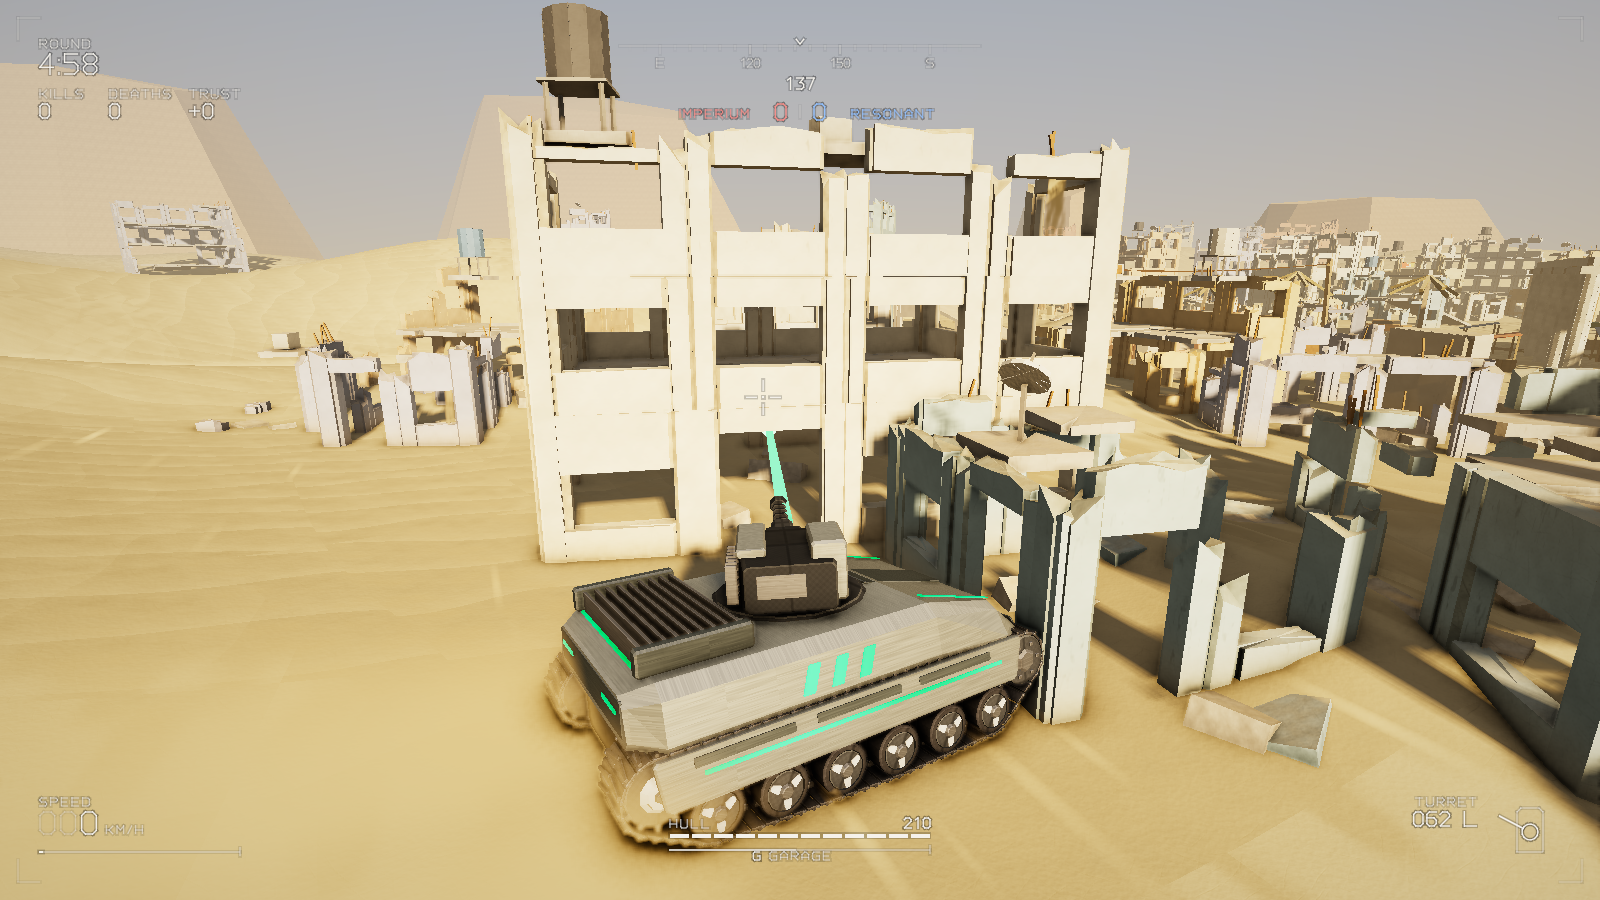
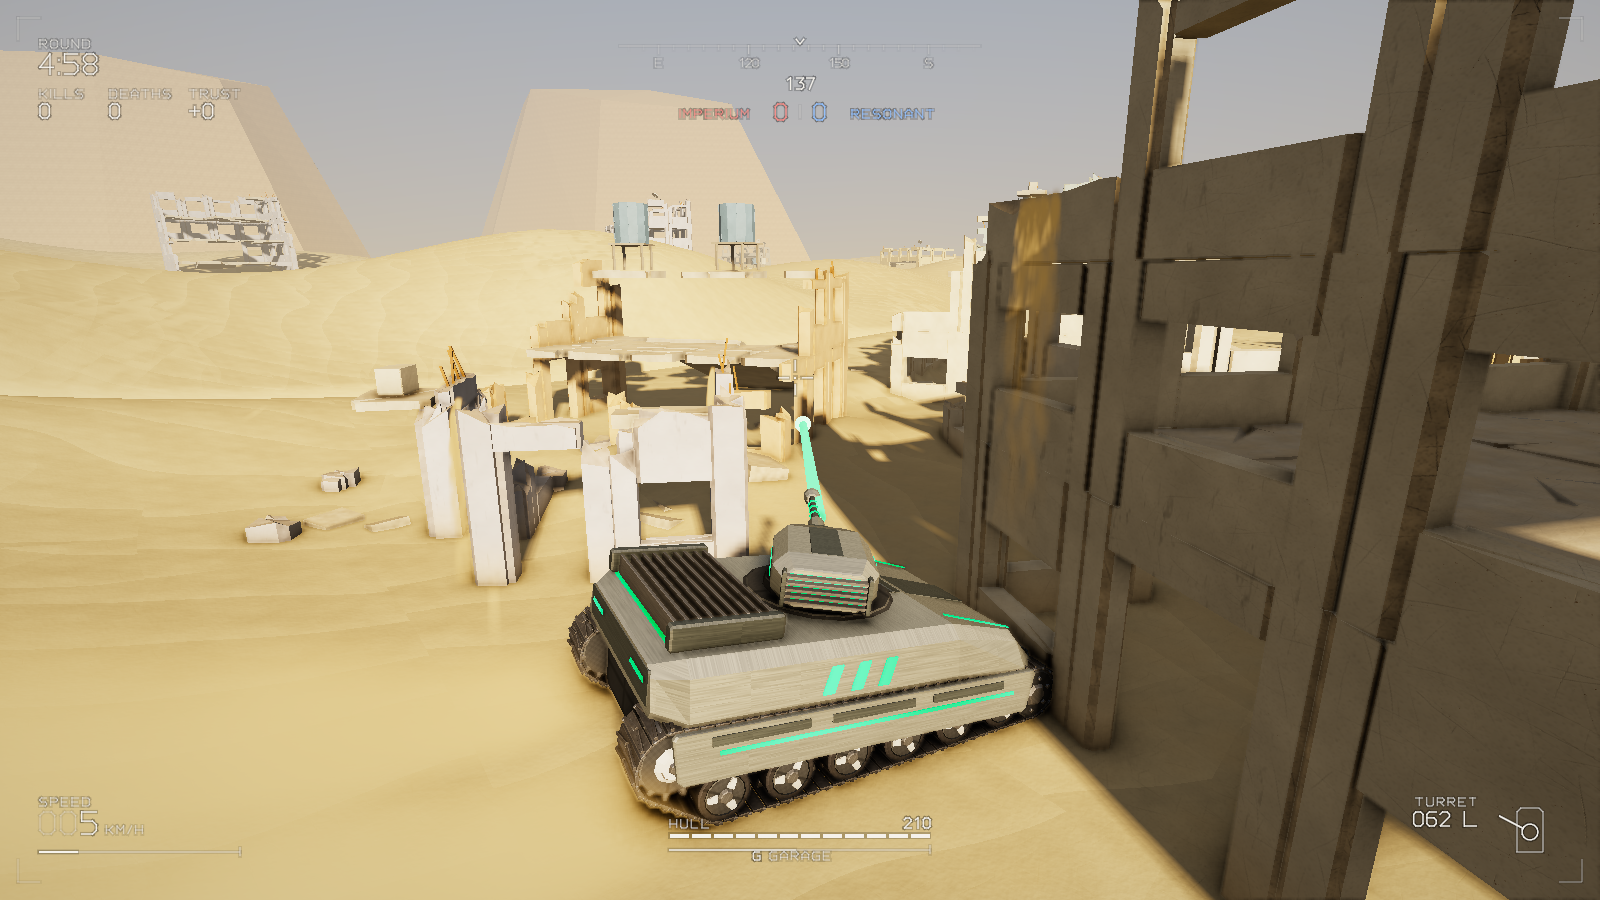
Lumen rebuilt in the Gravis's style
One faceted housing in the hull's pale shell instead of stacked blocks,
green seams on its shoulders and slots in its flanks, radiator fins over a
green-lit well at its back, and a smooth rod ringed in glowing green in
place of the square coils. Moves from model.rs to uthenn.rs.

Claude-Session: https://claude.ai/code/session_01MEmTqFVWWcjbd5bh79dW6c

diff --git a/src/tank/uthenn.rs b/src/tank/uthenn.rs
@@ -1,13 +1,13 @@
 //! Uthenn kit: the Gravis hull. Big, bulky and slow: one smooth pale shell
 //! over the whole running gear, armored pods over the tracks, a chisel prow
 //! with a green visor, and a bank of radiator fins across the rear deck.
-//! Green light runs in its seams.
+//! Green light runs in its seams. And the Lumen turret, in the same style.
 
 use glam::{Vec2, Vec3, Vec4};
 
 use super::model::{
-    CARBON, CARBON_LIGHT, HullModel, LASER_GLOW, METAL, Running, Skin, at_z, block, block2, ngon,
-    plate, plate2, round, solid, trap, v,
+    CARBON, CARBON_LIGHT, HullModel, LASER_GLOW, METAL, Rig, Running, Skin, TurretModel, at_x,
+    at_z, block, block2, ngon, plate, plate2, rect, round, solid, trap, turret_ring, v,
 };
 use super::track::Wheel;
 use crate::render::material::Material;
@@ -260,4 +260,183 @@ pub fn gravis() -> HullModel {
 /// A ring of radius `r` around the turret ring's axis, at height `y`.
 fn at_y_ring(r: f32, y: f32) -> Vec<Vec3> {
     super::model::at_y(&ngon(16, r, Vec2::new(0.0, -0.1)), y)
+}
+
+/// Uthenn laser: one faceted housing in the hull's pale shell, sloping down
+/// to the gun, green seams along its shoulders, radiator fins over a
+/// green-lit well at its back, and a smooth focusing rod ringed in green
+/// ending in the lens.
+pub fn lumen() -> TurretModel {
+    let mut head = MeshData::default();
+    let inside = v(0.0, 0.42, -0.2);
+    turret_ring(&mut head);
+    let sec = |hw: f32, hh: f32, y: f32| rect(Vec2::new(0.0, y), Vec2::new(hw, hh), hh * 0.55);
+    solid(
+        &mut head,
+        &[
+            at_z(&sec(0.6, 0.27, 0.42), -1.3),
+            at_z(&sec(0.74, 0.36, 0.44), -0.95),
+            at_z(&sec(0.74, 0.36, 0.44), 0.35),
+            at_z(&sec(0.52, 0.24, 0.42), 1.0),
+        ],
+        0.03,
+        SHELL,
+    );
+    // Dark spine down the top.
+    plate(
+        &mut head,
+        [
+            v(-0.22, 0.81, -0.95),
+            v(0.22, 0.81, -0.95),
+            v(0.22, 0.81, 0.35),
+            v(-0.22, 0.81, 0.35),
+        ],
+        0.03,
+        inside,
+        SHELL_DARK,
+    );
+    // Green seams along the shoulders, from the back to where it slopes.
+    plate2(
+        &mut head,
+        [
+            v(0.5, 0.79, -0.9),
+            v(0.5, 0.79, 0.3),
+            v(0.55, 0.77, 0.3),
+            v(0.55, 0.77, -0.9),
+        ],
+        0.012,
+        inside,
+        LASER_GLOW,
+    );
+    // Side slots, like the hull's.
+    for k in 0..2 {
+        let z = -0.55 + k as f32 * 0.3;
+        plate2(
+            &mut head,
+            [
+                v(0.76, 0.6, z),
+                v(0.76, 0.6, z + 0.12),
+                v(0.76, 0.3, z + 0.04),
+                v(0.76, 0.3, z - 0.08),
+            ],
+            0.012,
+            inside,
+            LASER_GLOW,
+        );
+    }
+    // The back: a green-lit well behind a stack of radiator fins.
+    plate(
+        &mut head,
+        [
+            v(-0.5, 0.62, -1.31),
+            v(0.5, 0.62, -1.31),
+            v(0.5, 0.22, -1.31),
+            v(-0.5, 0.22, -1.31),
+        ],
+        0.012,
+        inside,
+        LASER_GLOW,
+    );
+    for k in 0..5 {
+        let y = 0.24 + k as f32 * 0.085;
+        block(
+            &mut head,
+            v(-0.54, y, -1.42),
+            v(0.54, y + 0.035, -1.28),
+            0.008,
+            METAL,
+        );
+    }
+    block2(
+        &mut head,
+        v(0.54, 0.18, -1.44),
+        v(0.6, 0.68, -1.26),
+        0.015,
+        SHELL_DARK,
+    );
+
+    let mut mantlet = MeshData::default();
+    solid(
+        &mut mantlet,
+        &[
+            at_z(&sec(0.28, 0.2, 0.0), -0.3),
+            at_z(&sec(0.24, 0.17, 0.0), 0.4),
+        ],
+        0.03,
+        SHELL_DARK,
+    );
+    round(
+        &mut mantlet,
+        &[
+            at_x(&ngon(10, 0.1, Vec2::ZERO), -0.36),
+            at_x(&ngon(10, 0.1, Vec2::ZERO), 0.36),
+        ],
+        0.02,
+        CARBON,
+    );
+
+    let mut barrel = MeshData::default();
+    // A sleeve narrowing into the rod.
+    round(
+        &mut barrel,
+        &[
+            at_z(&ngon(10, 0.17, Vec2::ZERO), 0.3),
+            at_z(&ngon(10, 0.15, Vec2::ZERO), 1.0),
+            at_z(&ngon(10, 0.09, Vec2::ZERO), 1.25),
+        ],
+        0.02,
+        SHELL,
+    );
+    round(
+        &mut barrel,
+        &[
+            at_z(&ngon(10, 0.075, Vec2::ZERO), 1.2),
+            at_z(&ngon(10, 0.075, Vec2::ZERO), 2.9),
+        ],
+        0.0,
+        SHELL_DARK,
+    );
+    // Focusing rings, glowing.
+    for z in [1.55f32, 1.95, 2.35] {
+        round(
+            &mut barrel,
+            &[
+                at_z(&ngon(10, 0.1, Vec2::ZERO), z),
+                at_z(&ngon(10, 0.1, Vec2::ZERO), z + 0.06),
+            ],
+            0.01,
+            LASER_GLOW,
+        );
+    }
+    // Lens housing and the green lens.
+    round(
+        &mut barrel,
+        &[
+            at_z(&ngon(10, 0.12, Vec2::ZERO), 2.82),
+            at_z(&ngon(10, 0.17, Vec2::ZERO), 3.0),
+            at_z(&ngon(10, 0.17, Vec2::ZERO), 3.15),
+        ],
+        0.02,
+        SHELL,
+    );
+    round(
+        &mut barrel,
+        &[
+            at_z(&ngon(10, 0.115, Vec2::ZERO), 3.1),
+            at_z(&ngon(10, 0.115, Vec2::ZERO), 3.16),
+        ],
+        0.0,
+        LASER_GLOW,
+    );
+
+    TurretModel {
+        head,
+        mantlet,
+        barrel,
+        pivot: v(0.0, 0.42, 0.92),
+        barrels: vec![Vec3::ZERO],
+        muzzle: 3.2,
+        rig: Rig::Recoil,
+        recoil: 0.0,
+    }
 }

diff --git a/src/tank/model.rs b/src/tank/model.rs
@@ -1598,157 +1598,6 @@ pub(crate) fn shard(m: &mut MeshData, base: Vec3, dir: Vec3, len: f32, r: f32, s
     );
 }
 
-/// Uthenn laser: a blocky, asymmetric housing stacked with heat-sink fins,
-/// and a long focusing rod ending in a green lens.
-pub fn lumen() -> TurretModel {
-    let mut head = MeshData::default();
-    let inside = v(0.0, 0.45, -0.2);
-    turret_ring(&mut head);
-    solid(
-        &mut head,
-        &[
-            at_z(
-                &rect(Vec2::new(0.0, 0.42), Vec2::new(0.62, 0.32), 0.05),
-                -1.2,
-            ),
-            at_z(
-                &rect(Vec2::new(0.0, 0.42), Vec2::new(0.7, 0.36), 0.06),
-                -0.3,
-            ),
-            at_z(&rect(Vec2::new(0.0, 0.4), Vec2::new(0.6, 0.3), 0.06), 0.9),
-        ],
-        0.03,
-        CARBON,
-    );
-    // Power block offset to one side, and an armored cap on the other.
-    block(
-        &mut head,
-        v(-0.78, 0.15, -1.0),
-        v(-0.3, 0.98, 0.1),
-        0.04,
-        super::uthenn::SHELL,
-    );
-    block(
-        &mut head,
-        v(0.3, 0.78, -0.9),
-        v(0.72, 0.9, 0.6),
-        0.03,
-        super::uthenn::SHELL,
-    );
-    // Heat-sink fins: a stack of thin metal plates down the right flank.
-    for k in 0..7 {
-        let z = -1.05 + k as f32 * 0.16;
-        block(
-            &mut head,
-            v(0.7, 0.2, z),
-            v(0.86, 0.74, z + 0.05),
-            0.01,
-            METAL,
-        );
-    }
-    // Red status slit and a rear exhaust grille.
-    plate(
-        &mut head,
-        [
-            v(-0.8, 0.8, -0.7),
-            v(-0.8, 0.8, -0.1),
-            v(-0.8, 0.72, -0.1),
-            v(-0.8, 0.72, -0.7),
-        ],
-        0.015,
-        inside,
-        LASER_GLOW,
-    );
-    plate(
-        &mut head,
-        [
-            v(-0.2, 0.62, -1.21),
-            v(0.45, 0.62, -1.21),
-            v(0.45, 0.3, -1.21),
-            v(-0.2, 0.3, -1.21),
-        ],
-        0.015,
-        inside,
-        METAL,
-    );
-
-    let mut mantlet = MeshData::default();
-    block(
-        &mut mantlet,
-        v(-0.3, -0.22, -0.35),
-        v(0.3, 0.22, 0.4),
-        0.04,
-        CARBON,
-    );
-    round(
-        &mut mantlet,
-        &[
-            at_x(&ngon(8, 0.1, Vec2::ZERO), -0.4),
-            at_x(&ngon(8, 0.1, Vec2::ZERO), 0.4),
-        ],
-        0.02,
-        METAL,
-    );
-
-    let mut barrel = MeshData::default();
-    let sq = |h: f32| rect(Vec2::ZERO, Vec2::splat(h), h * 0.35);
-    solid(
-        &mut barrel,
-        &[at_z(&sq(0.2), 0.3), at_z(&sq(0.18), 1.1)],
-        0.03,
-        CARBON_LIGHT,
-    );
-    round(
-        &mut barrel,
-        &[
-            at_z(&ngon(8, 0.07, Vec2::ZERO), 1.05),
-            at_z(&ngon(8, 0.07, Vec2::ZERO), 2.9),
-        ],
-        0.0,
-        METAL,
-    );
-    // Focusing coils along the rod.
-    for i in 0..4 {
-        let z = 1.3 + i as f32 * 0.38;
-        solid(
-            &mut barrel,
-            &[at_z(&sq(0.13), z), at_z(&sq(0.13), z + 0.12)],
-            0.015,
-            CARBON,
-        );
-    }
-    // Lens housing and the red lens.
-    solid(
-        &mut barrel,
-        &[
-            at_z(&ngon(8, 0.16, Vec2::ZERO), 2.85),
-            at_z(&ngon(8, 0.19, Vec2::ZERO), 3.15),
-        ],
-        0.02,
-        CARBON,
-    );
-    round(
-        &mut barrel,
-        &[
-            at_z(&ngon(10, 0.11, Vec2::ZERO), 3.1),
-            at_z(&ngon(10, 0.11, Vec2::ZERO), 3.16),
-        ],
-        0.0,
-        LASER_GLOW,
-    );
-
-    TurretModel {
-        head,
-        mantlet,
-        barrel,
-        pivot: v(0.0, 0.42, 0.92),
-        barrels: vec![Vec3::ZERO],
-        muzzle: 3.2,
-        rig: Rig::Recoil,
-        recoil: 0.0,
-    }
-}
-
 /// Resonant flamethrower: a rounded, painted reliquary of a head crowned with
 /// glowing crystals, a censer hung at its back, and a short wide nozzle caged
 /// in crystal that breathes the fire.

diff --git a/src/tank/mod.rs b/src/tank/mod.rs
@@ -64,7 +64,7 @@ impl KitMeshes {
                 model::pelekys(),
                 ithessar::ammeth(),
                 ithessar::ossrin(),
-                model::lumen(),
+                uthenn::lumen(),
                 model::hymn(),
             ],
         }
